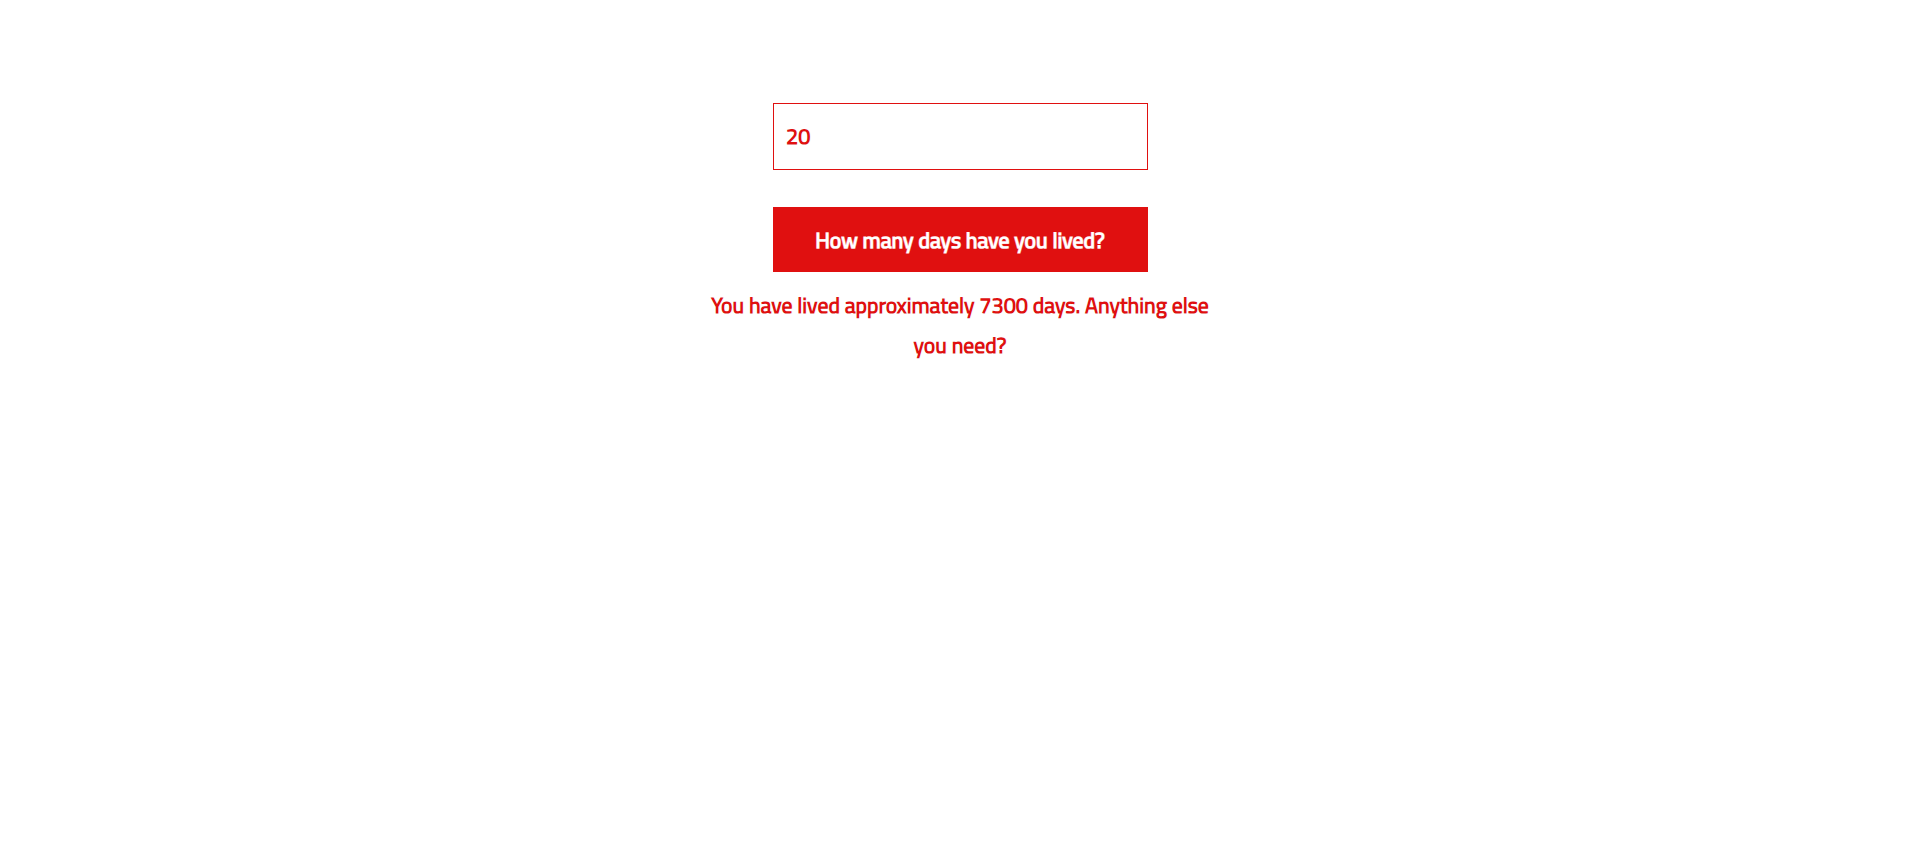
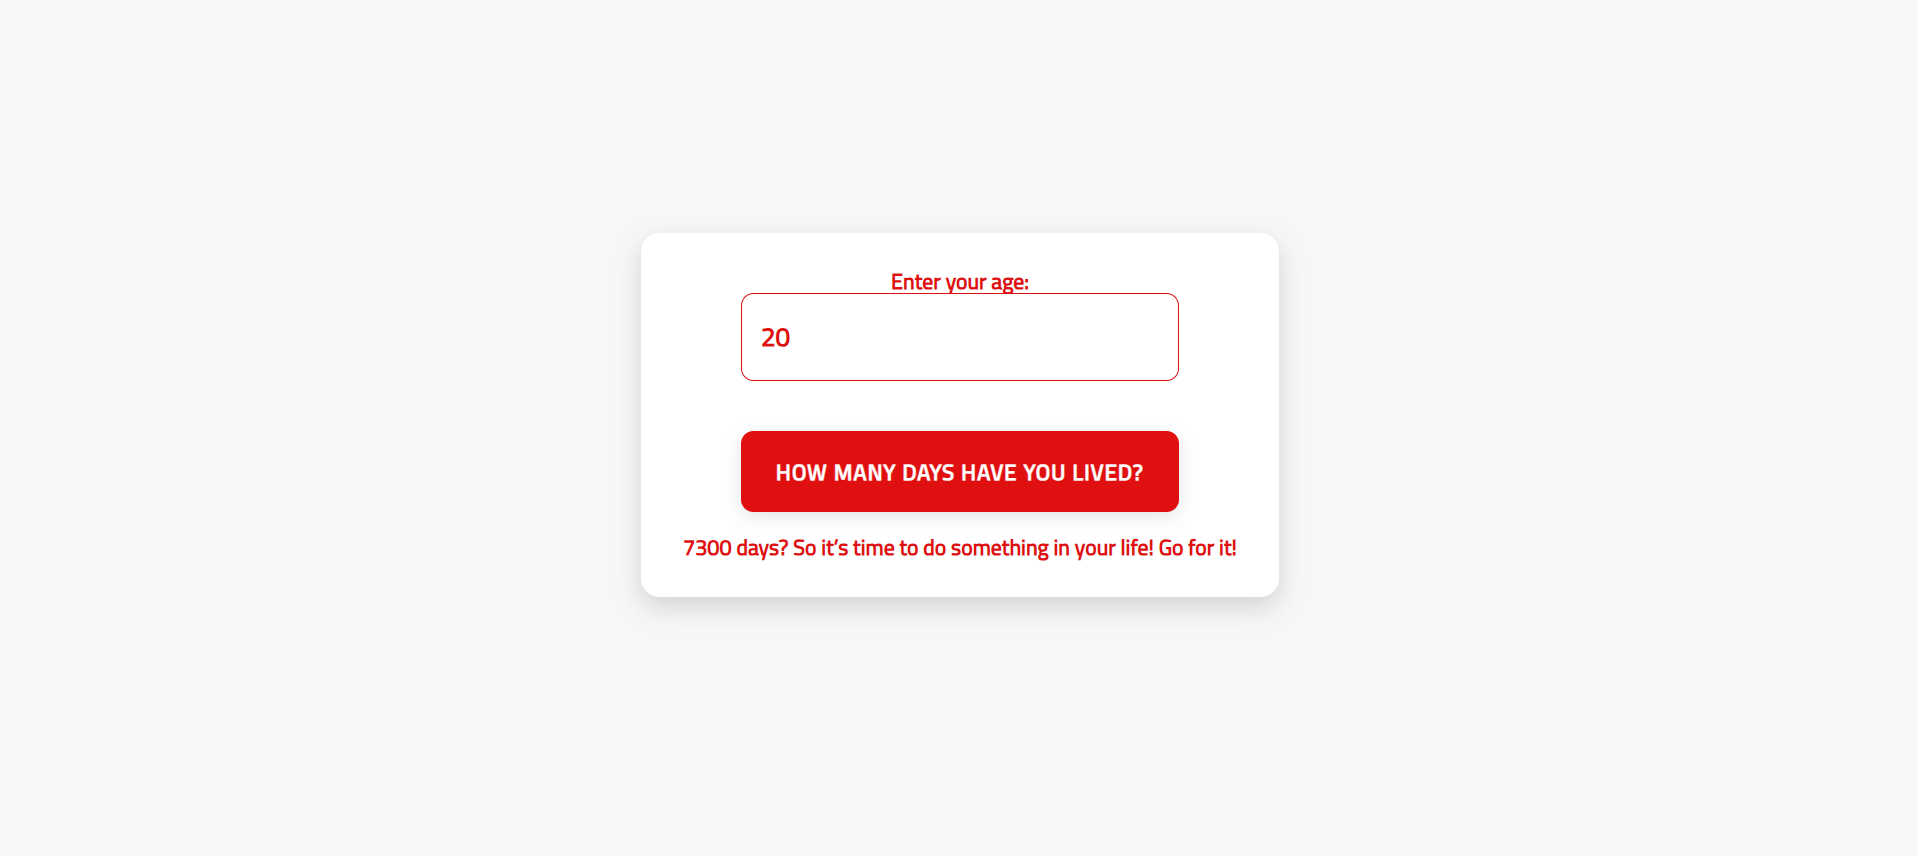
added

diff --git a/script.js b/script.js
@@ -1,29 +1,33 @@
-/*global console, alert, prompt*/
 function yearsToDays() {
     'use strict';
-    var
-        a = document.getElementById('name').value,
-        r = a * 365,
-        m = document.getElementById('div');
-    if (a === "") {
-        m.innerHTML = "Please don't joke around, just write your age.";
-    } else if (a === "My dear, thank you") {
-        m.innerHTML = "You're welcome, no worries.";
-    } else if (a === "Buddy" || a === "My friend" || a === "Chief" || a === "My brother" || a === "Boss") {
-        m.innerHTML = "What’s up, boss? What do you need?";
-    } else if (a === "I don't want to write, man" || a === "I don't want to write, buddy" || a === "I don't want to write, my friend" || a === "I don't want to write, chief" || a === "I don't want to write" || a === "I don't want to write, boss" || a === "I don't want to write, my brother") {
-        m.innerHTML = "Come on, don't make me angry. I'm being nice; don't make me call Madam Afaf, alright?";
-    } else if (isNaN(a)) {
-        m.innerHTML = "I'm asking for your age, not your name. Please understand.";
-    } else if (a < 0) {
-        m.innerHTML = "You're not from the past, write your current age.";
-    } else if (a == 0) {
-        m.innerHTML = "Be born first and then come talk to me.";
-    } else if (a >= 100) {
-        m.innerHTML = "You should be asking how many hours you'll live. Move on, please.";
-    } else if (a <= 9) {
-        m.innerHTML = "Go on, kiddo. Your mom is calling you.";
-    } else {
-        m.innerHTML = "You have lived approximately " + r + " days. Anything else you need?";
+    
+    var age = document.getElementById('name').value.trim(),
+        days = age * 365,
+        messageDiv = document.getElementById('div');
+    
+    if (age === "") {
+        messageDiv.innerHTML = "Come on, don’t be shy! Just tell me your age.";
+    } else if (isNaN(age)) {
+        messageDiv.innerHTML = "I asked for your age, not your life story! Enter a number.";
+    } else if (age < 0) {
+        messageDiv.innerHTML = "Negative age? Are you a time traveler?";
+    } else if (age == 0) {
+        messageDiv.innerHTML = "You need to be born first, buddy. Try again later.";
+    } else if (age <= 15) {
+        messageDiv.innerHTML = days + " days, kiddo? Go back to your cartoons. This is for grown-ups.";
+    } else if (age >= 16 && age <= 30) {
+        messageDiv.innerHTML = days + " days? So it’s time to do something in your life! Go for it!";
+    } else if (age >= 31 && age <= 49) {
+        messageDiv.innerHTML = days + " days? Aha, married? How’s that going? Life in full swing!";
+    } else if (age == 50) {
+        messageDiv.innerHTML = "Wow, half a century lived! That's a lot of wisdom!";
+    } else if (age >= 51 && age <= 70) {
+        messageDiv.innerHTML = days + " days? Just getting old, huh? So yeah, survive more!";
+    } else if (age >= 71 && age <= 99) {
+        messageDiv.innerHTML = days + " days? You're alive! Still not dead? Shocked!";
+    } else if (age == 100) {
+        messageDiv.innerHTML = "A century! Are you serious? Is this real?";
+    } else if (age > 100) {
+        messageDiv.innerHTML = "Wow! " + days + " days, Are you a vampire or something? That’s ancient!";
     }
 }

diff --git a/style.css b/style.css
@@ -3,6 +3,13 @@ body {
     padding: 0;
     box-sizing: border-box;
     font-family: 'Cairo', sans-serif;
+    background-color: #f7f7f7;
+    color: #333;
+    height: 100vh;
+    display: flex;
+    justify-content: center;
+    align-items: center;
+    flex-direction: column;
 }
 
 button {
@@ -11,48 +18,76 @@ button {
     background-color: #e01010;
     color: #fff;
     border: none;
-    padding: 10px;
-    width: 100%; 
-    max-width: 300px; 
-    transition: all 0.5s ease-in-out;
+    padding: 15px;
+    width: 100%;
+    max-width: 350px;
+    transition: all 0.3s ease-in-out;
     font-size: 2.5vh;
     cursor: pointer;
-    height: 52px;
-    margin: 10px auto; 
+    height: 65px;
+    margin: 20px auto;
     display: block;
+    border-radius: 10px;
+    box-shadow: 0 4px 15px rgba(0, 0, 0, 0.1);
+    letter-spacing: 1px;
+    text-transform: uppercase;
 }
 
 button:hover {
     background-color: #fff;
     color: #e01010;
-    border: 1px solid #e01010;
+    border: 2px solid #e01010;
+    box-shadow: 0 8px 20px rgba(0, 0, 0, 0.2);
+    transform: translateY(-5px);
+}
+
+button:active {
+    transform: translateY(1px);
 }
 
 .form {
     position: relative;
-    width: 100%; 
-    max-width: 400px; 
-    margin: 10vh auto; 
-    padding: 20px;
-    text-align: relative;
+    width: 100%;
+    max-width: 450px;
+    margin: 10vh auto;
+    padding: 30px;
+    background-color: #fff;
+    border-radius: 15px;
+    box-shadow: 0 8px 20px rgba(0, 0, 0, 0.15);
+    text-align: center;
+    transition: all 0.3s ease-in-out;
+}
+
+.form:hover {
+    box-shadow: 0 12px 25px rgba(0, 0, 0, 0.2);
 }
 
 input {
     font-family: 'Cairo', sans-serif;
-    padding: 10px;
-    width: 100%; 
-    max-width: 300px;
-    font-size: 2.5vh;
+    padding: 15px;
+    width: 100%;
+    max-width: 350px;
+    font-size: 3vh;
     border: 1px solid #e01010;
     color: #e01010;
     outline: none;
     font-weight: bold;
     margin-bottom: 20px;
     box-sizing: border-box;
+    border-radius: 10px;
+    transition: all 0.3s ease-in-out;
+}
+
+input:focus {
+    border-color: #e01010;
+    box-shadow: 0 0 10px rgba(224, 16, 16, 0.7);
+    transform: translateY(-2px);
 }
 
 ::placeholder {
     color: #e01010;
+    opacity: 0.8;
+    font-style: italic;
 }
 
 div {
@@ -60,7 +95,28 @@ div {
     color: #e01010;
     font-weight: bold;
     font-size: 2.5vh;
-    margin-top: 10px;
-    word-wrap: break-word; 
-    text-align: center; 
+    margin-top: 20px;
+    word-wrap: break-word;
+    text-align: center;
+    line-height: 1.0;
+}
+
+@media (max-width: 600px) {
+    .form {
+        padding: 20px;
+    }
+
+    input,
+    button {
+        font-size: 4vh;
+    }
+
+    div {
+        font-size: 3vh;
+    }
+
+    input,
+    button {
+        max-width: 280px;
+    }
 }

diff --git a/index.html b/index.html
@@ -2,29 +2,18 @@
 <html lang="en">
 <head>
   <meta charset="UTF-8">
-  <title>CodePen - Age To Hours</title>
-  <link rel="stylesheet" href="./style.css">
+  <title>Years To Days</title>
+  <link href="https://fonts.googleapis.com/css?family=Cairo" rel="stylesheet">
+  <link href="https://maxcdn.bootstrapcdn.com/font-awesome/4.7.0/css/font-awesome.min.css" rel="stylesheet" integrity="sha384-wvfXpqpZZVQGK6TAh5PVlGOfQNHSoD2xbE+QkPxCAFlNEevoEH3Sl0sibVcOQVnN" crossorigin="anonymous">
+  <link rel="stylesheet" href="style.css">
 </head>
 <body>
-<!-- partial:index.partial.html -->
-<head>
-    <meta charset="utf-8" />
-    <title>Javascript - Project</title>
-    <link href="https://fonts.googleapis.com/css?family=Cairo" rel="stylesheet">
-    <link rel="icon" href="../../js.ico" />
-    <link href="https://maxcdn.bootstrapcdn.com/font-awesome/4.7.0/css/font-awesome.min.css" rel="stylesheet" integrity="sha384-wvfXpqpZZVQGK6TAh5PVlGOfQNHSoD2xbE+QkPxCAFlNEevoEH3Sl0sibVcOQVnN" crossorigin="anonymous">
-    <link rel="stylesheet" href="main.css" />
-</head>
-<body>
-    <div class="form">
-        <input type="text" value="" id="name" placeholder="&#xf2be How old are you?">
-        <button onclick="ageToHours()">How many days have you lived?</button>
-        <div id="div"></div>
-    </div>
-    <script src="script.js"></script>
-</body>
-<!-- partial -->
-<script src="./script.js"></script>
-
+  <div class="form">
+    <label for="name" class="input-label">Enter your age:</label>
+    <input type="text" id="name" placeholder="How old are you?">
+    <button onclick="yearsToDays()">How many days have you lived?</button>
+    <div id="div"></div>
+  </div>
+  <script src="script.js"></script>
 </body>
 </html>
